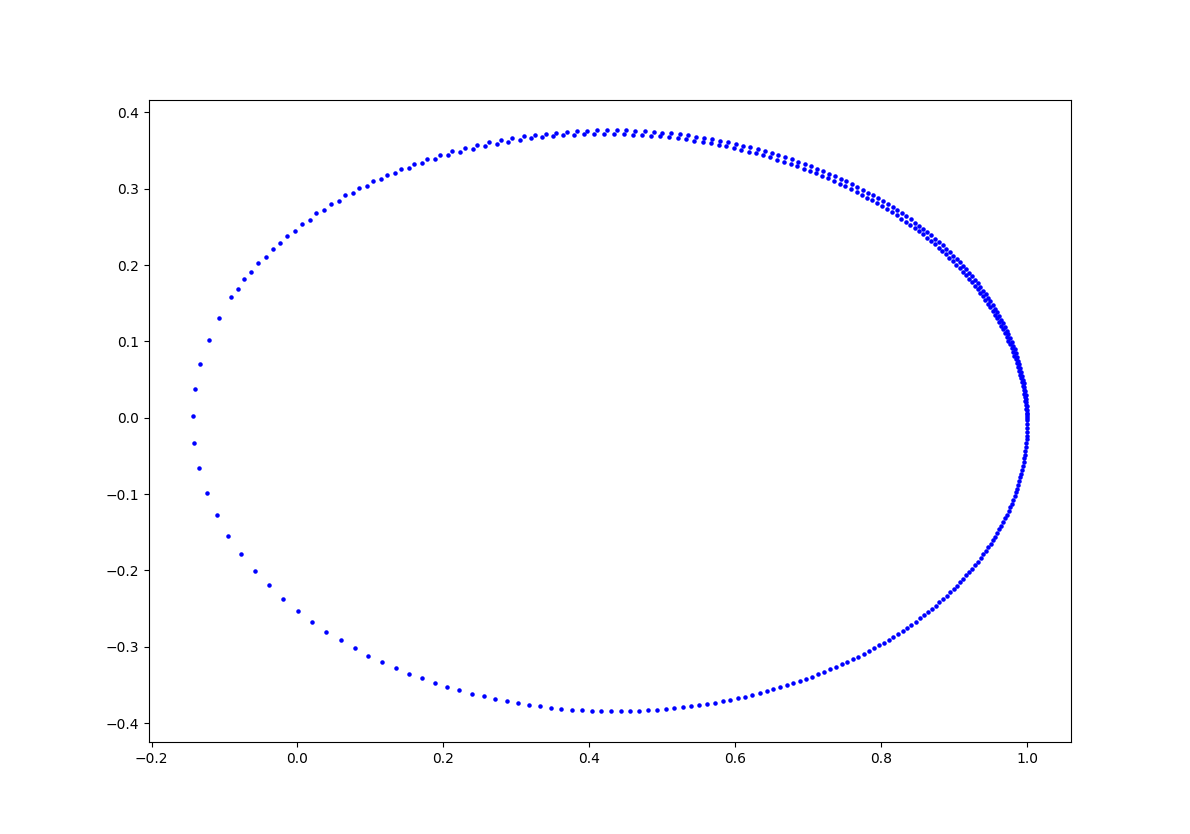
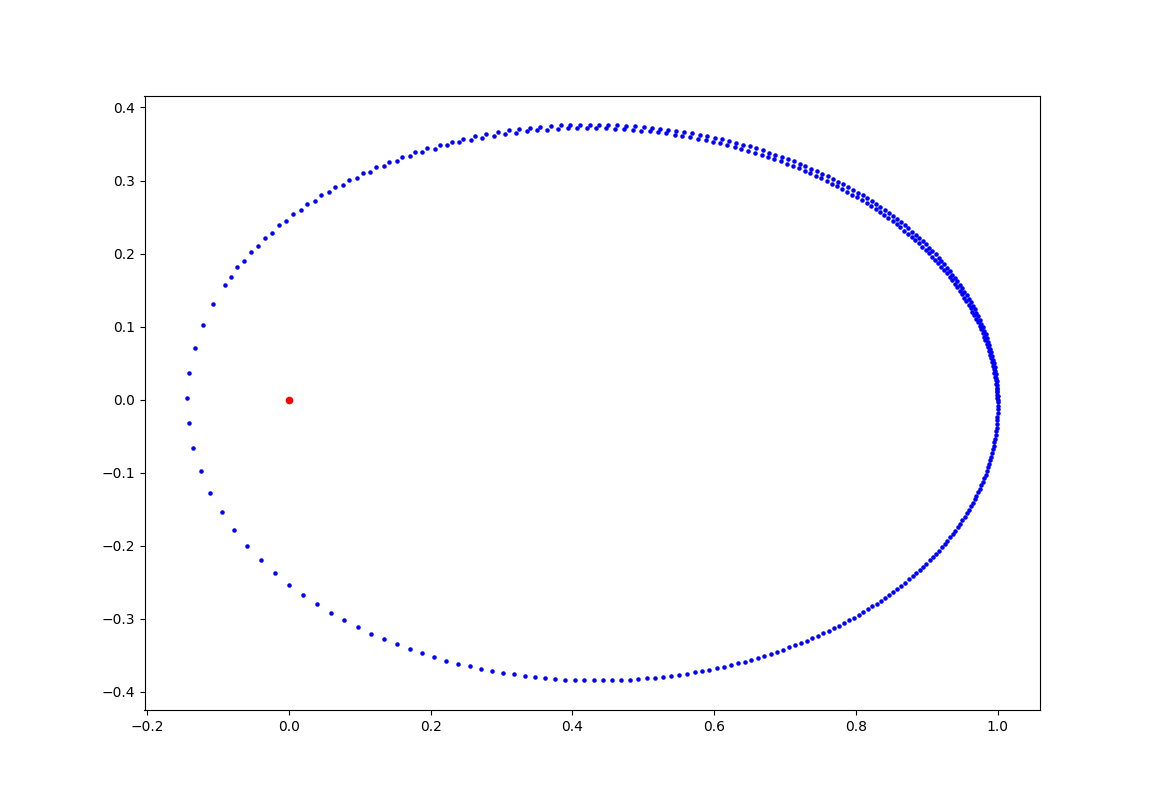
Changes to be committed:

diff --git a/6/6-05j.py b/6/6-05j.py
@@ -1,6 +1,6 @@
 import numpy as np
 import matplotlib.pyplot as plt
-color = ["r", "g", "b", "c", "m", "y", "k", "w"]
+color = ["r", "g", "b", "c", "m", "y", "k", "darkblue"]
 #==================パラメータ======================
 m = 1.0
 M = 1.0
@@ -8,7 +8,8 @@ G = 1.0
 g = 9.80
 dt = 0.010
 step = 400
-itr = 5
+itr = 8
+plt.scatter(0,0,s=20,c="red")       #恒星の位置
 for i in range(0,itr):
     #==================初期条件======================
     x = 1.0

diff --git a/6/6-03j.py b/6/6-03j.py
@@ -8,6 +8,7 @@ g = 9.80
 dt = 0.010
 step = 400
 #==================初期条件======================
+plt.scatter(0,0,s=20,c="red")
 x = 1.0
 y = 0.0
 vx = 0.0
